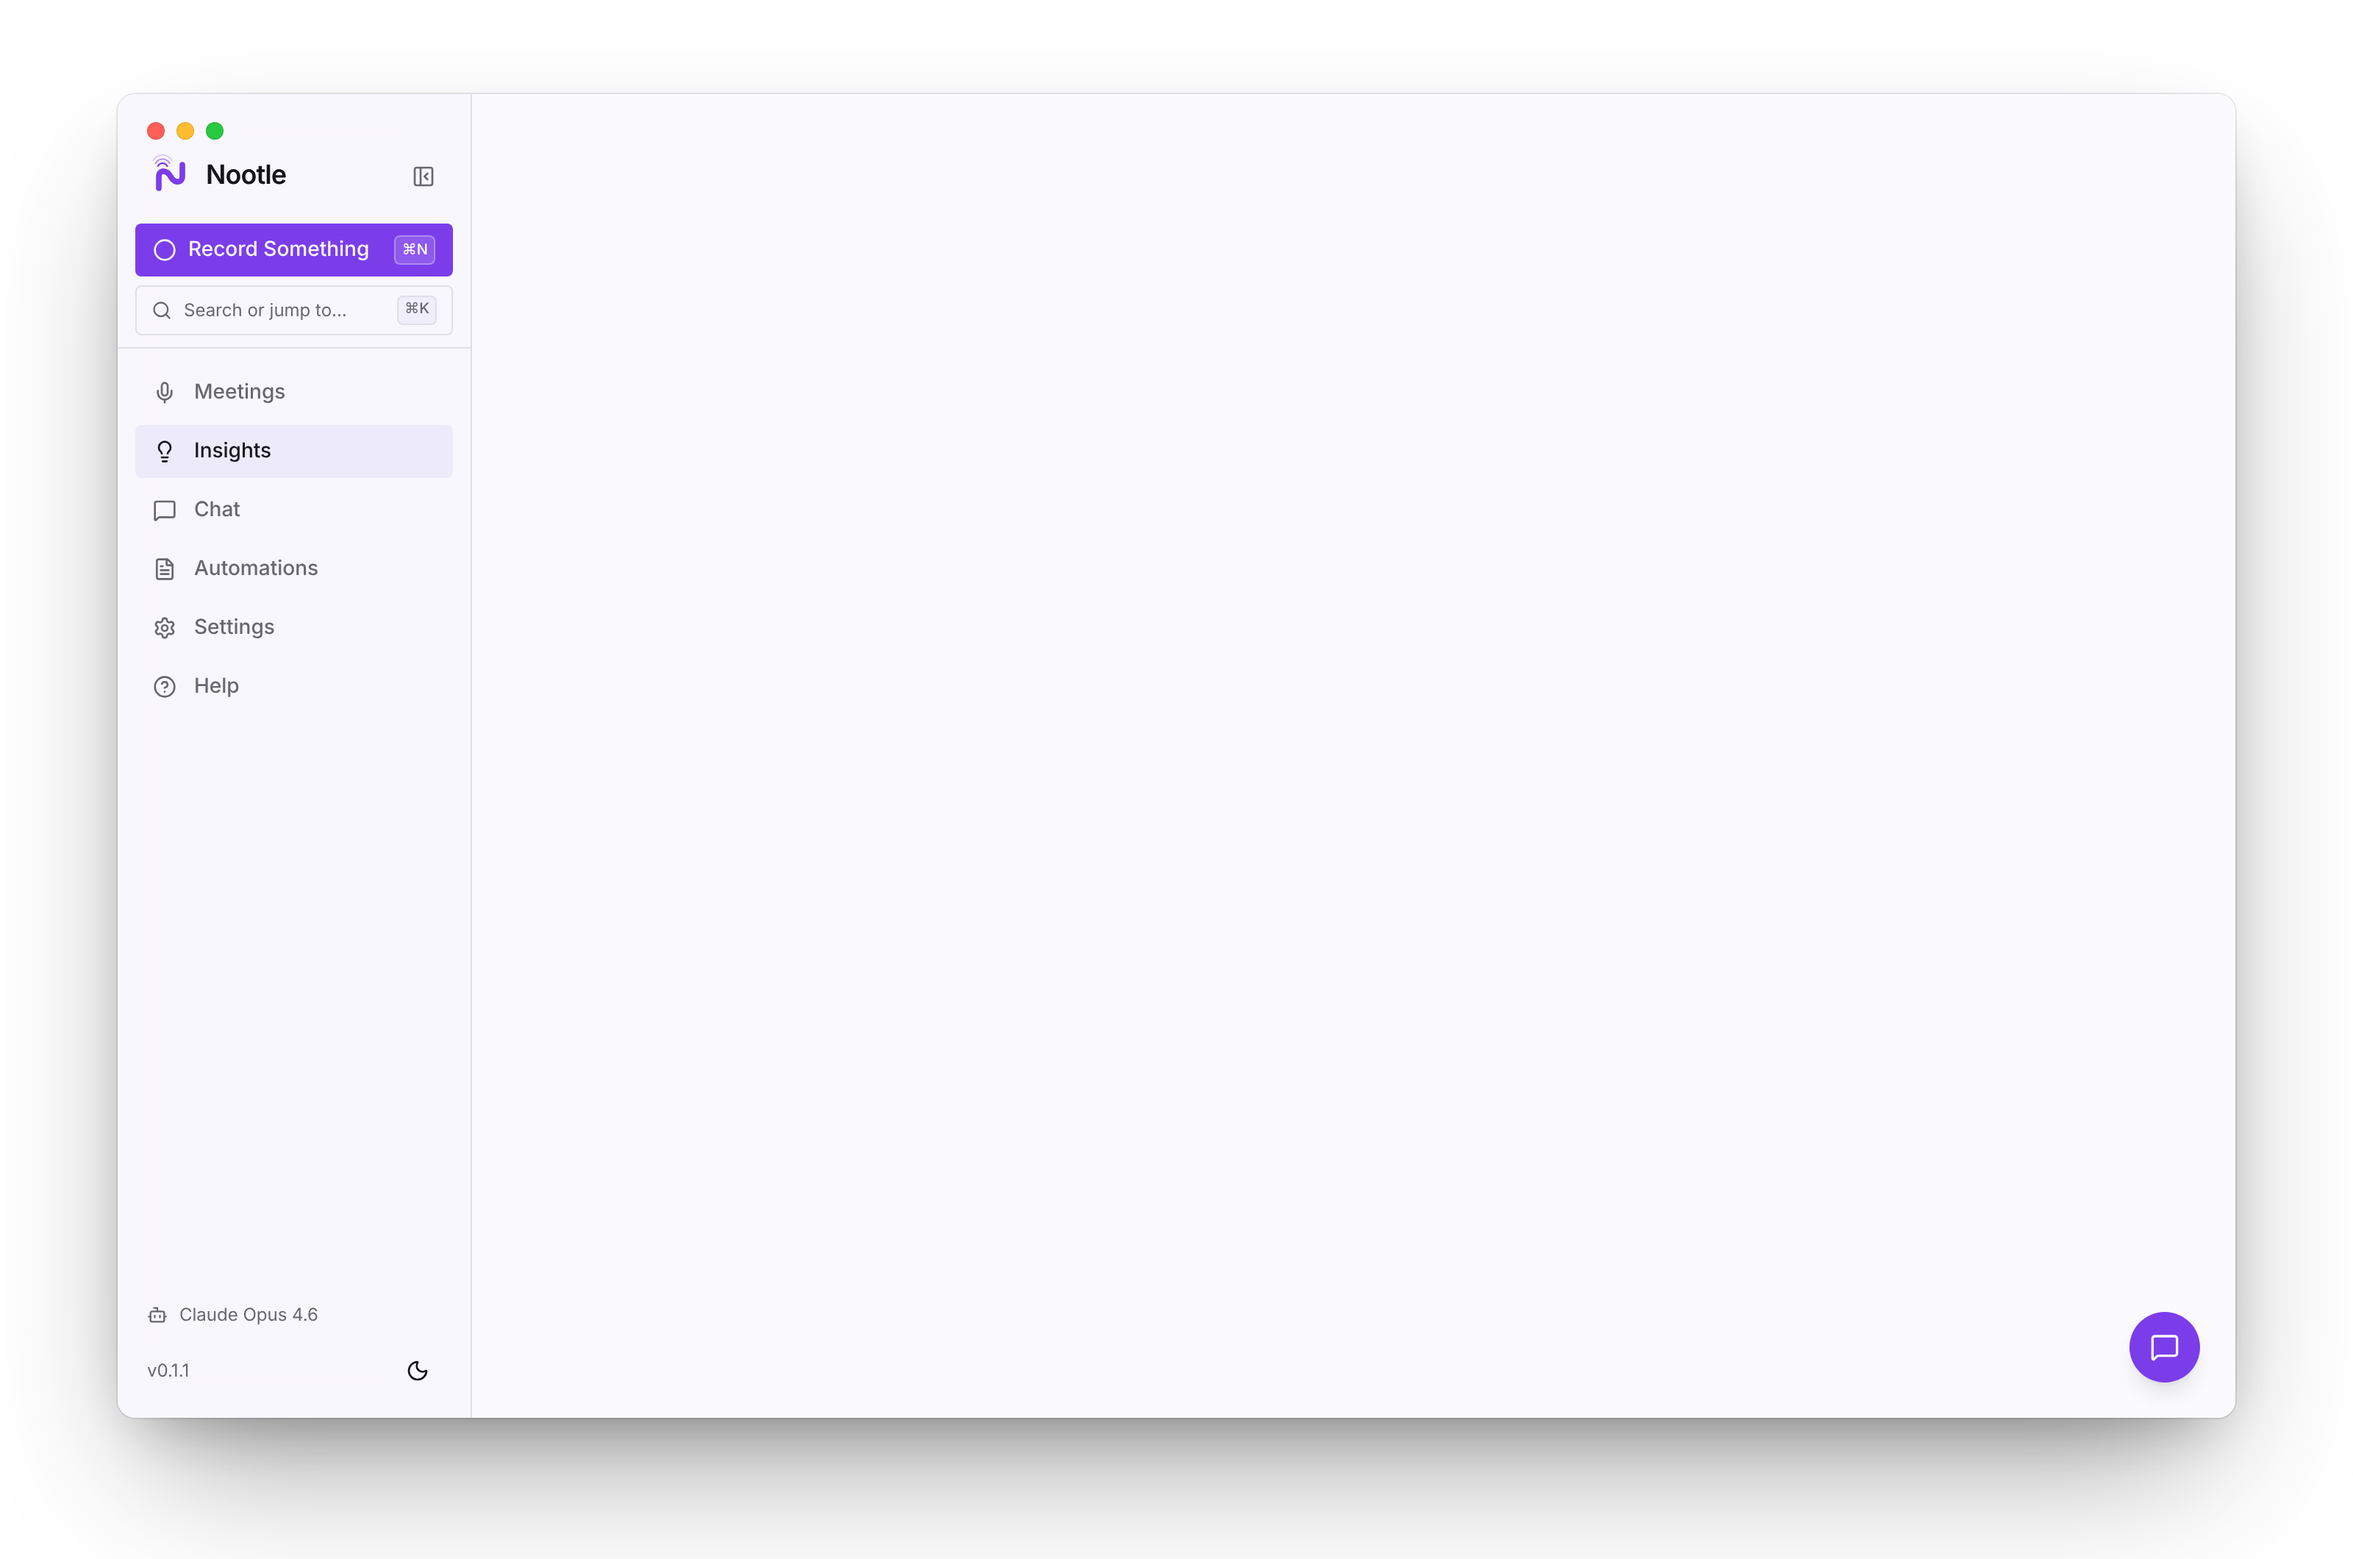
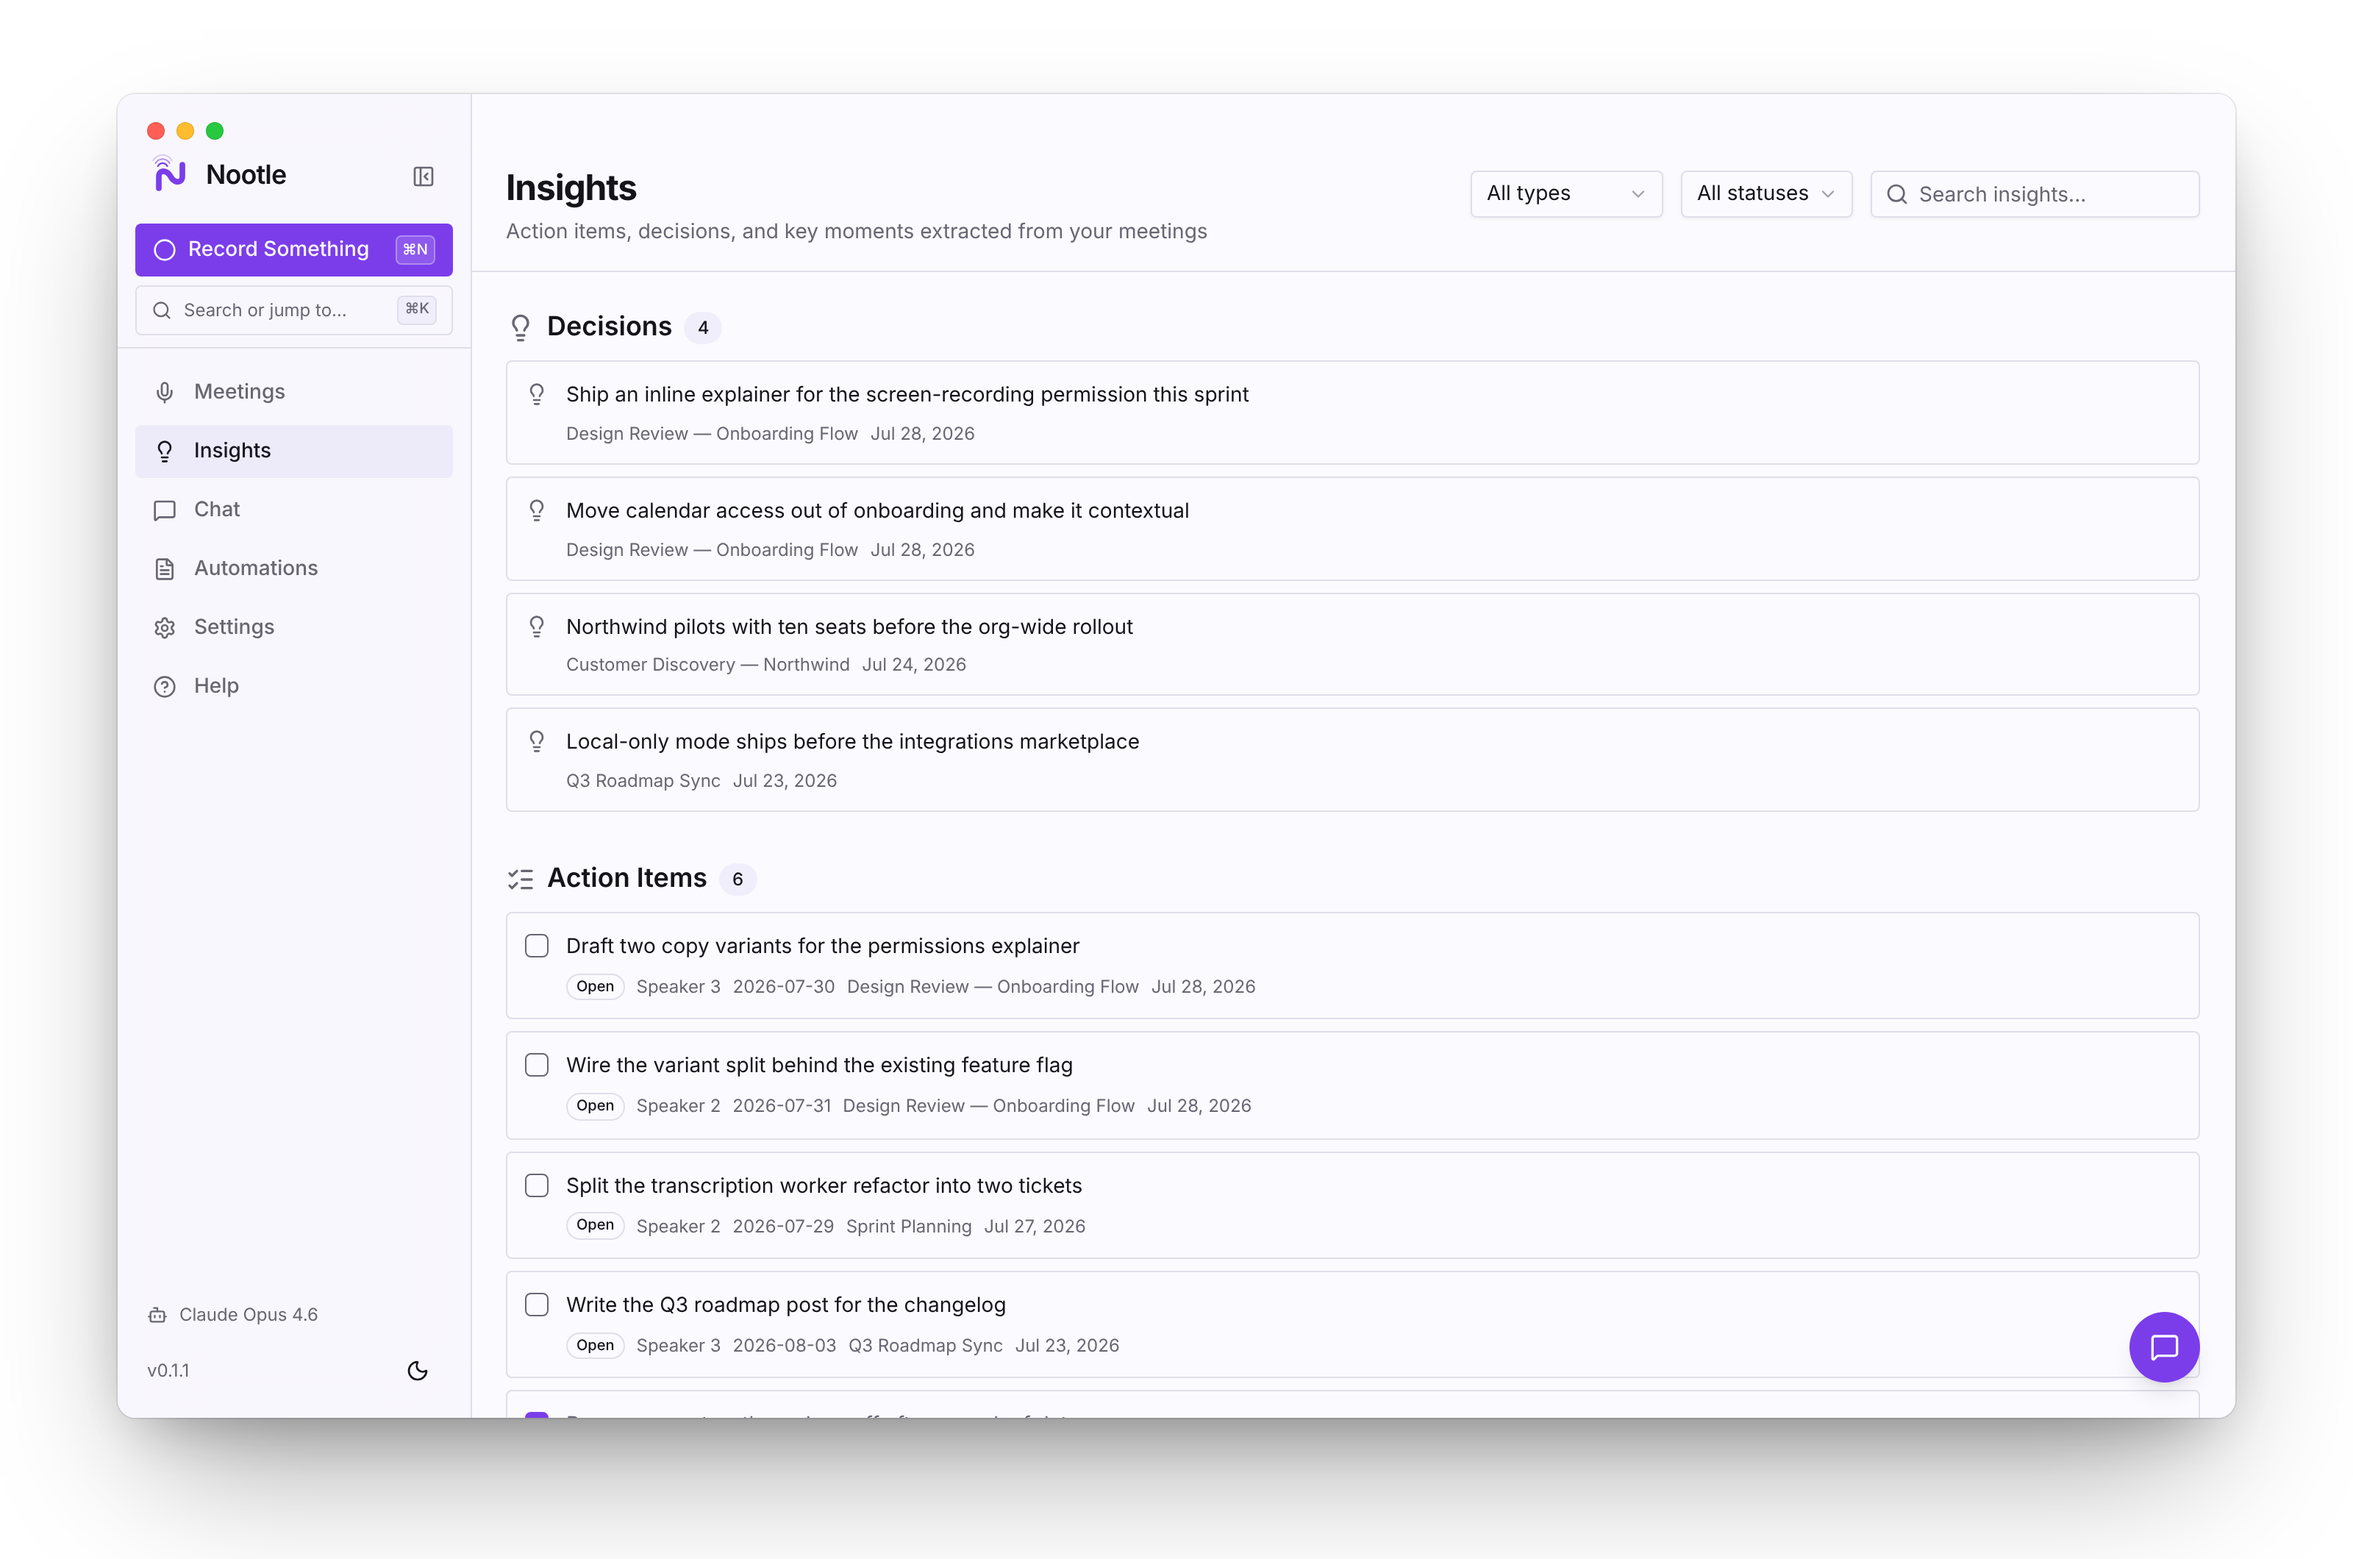
fix(screenshots): stop blank meeting, insights, and chat captures
The harness froze the browser clock with context.clock.setFixedTime, which
also stops performance.now and requestAnimationFrame. framer-motion entrance
animations never advanced, so those pages were captured at opacity 0.

Shift only Date to DEMO_NOW instead, and regenerate all screenshots.

Claude-Session: https://claude.ai/code/session_01Mep55qpfQNbPvHHnwCSd1s

diff --git a/scripts/screenshots/README.md b/scripts/screenshots/README.md
@@ -26,8 +26,9 @@ screenshots the next time this runs — no mockup to keep in sync.
 ## Editing
 
 - **Demo content** — `demo-data.mjs`. Every value is fictional. Dates are fixed,
-  and the browser clock is frozen at `DEMO_NOW`, so relative dates and the
-  streak render the same on every run.
+  and the browser's `Date` starts at `DEMO_NOW`, so relative dates and the
+  streak render the same on every run. Only `Date` is shifted — freezing the
+  whole clock stalls the page's entrance animations and leaves screens blank.
 - **Which screens get captured** — the `SHOTS` array in `capture.mjs`.
 - **Window chrome** — the `frame()` function in `capture.mjs`.
 
